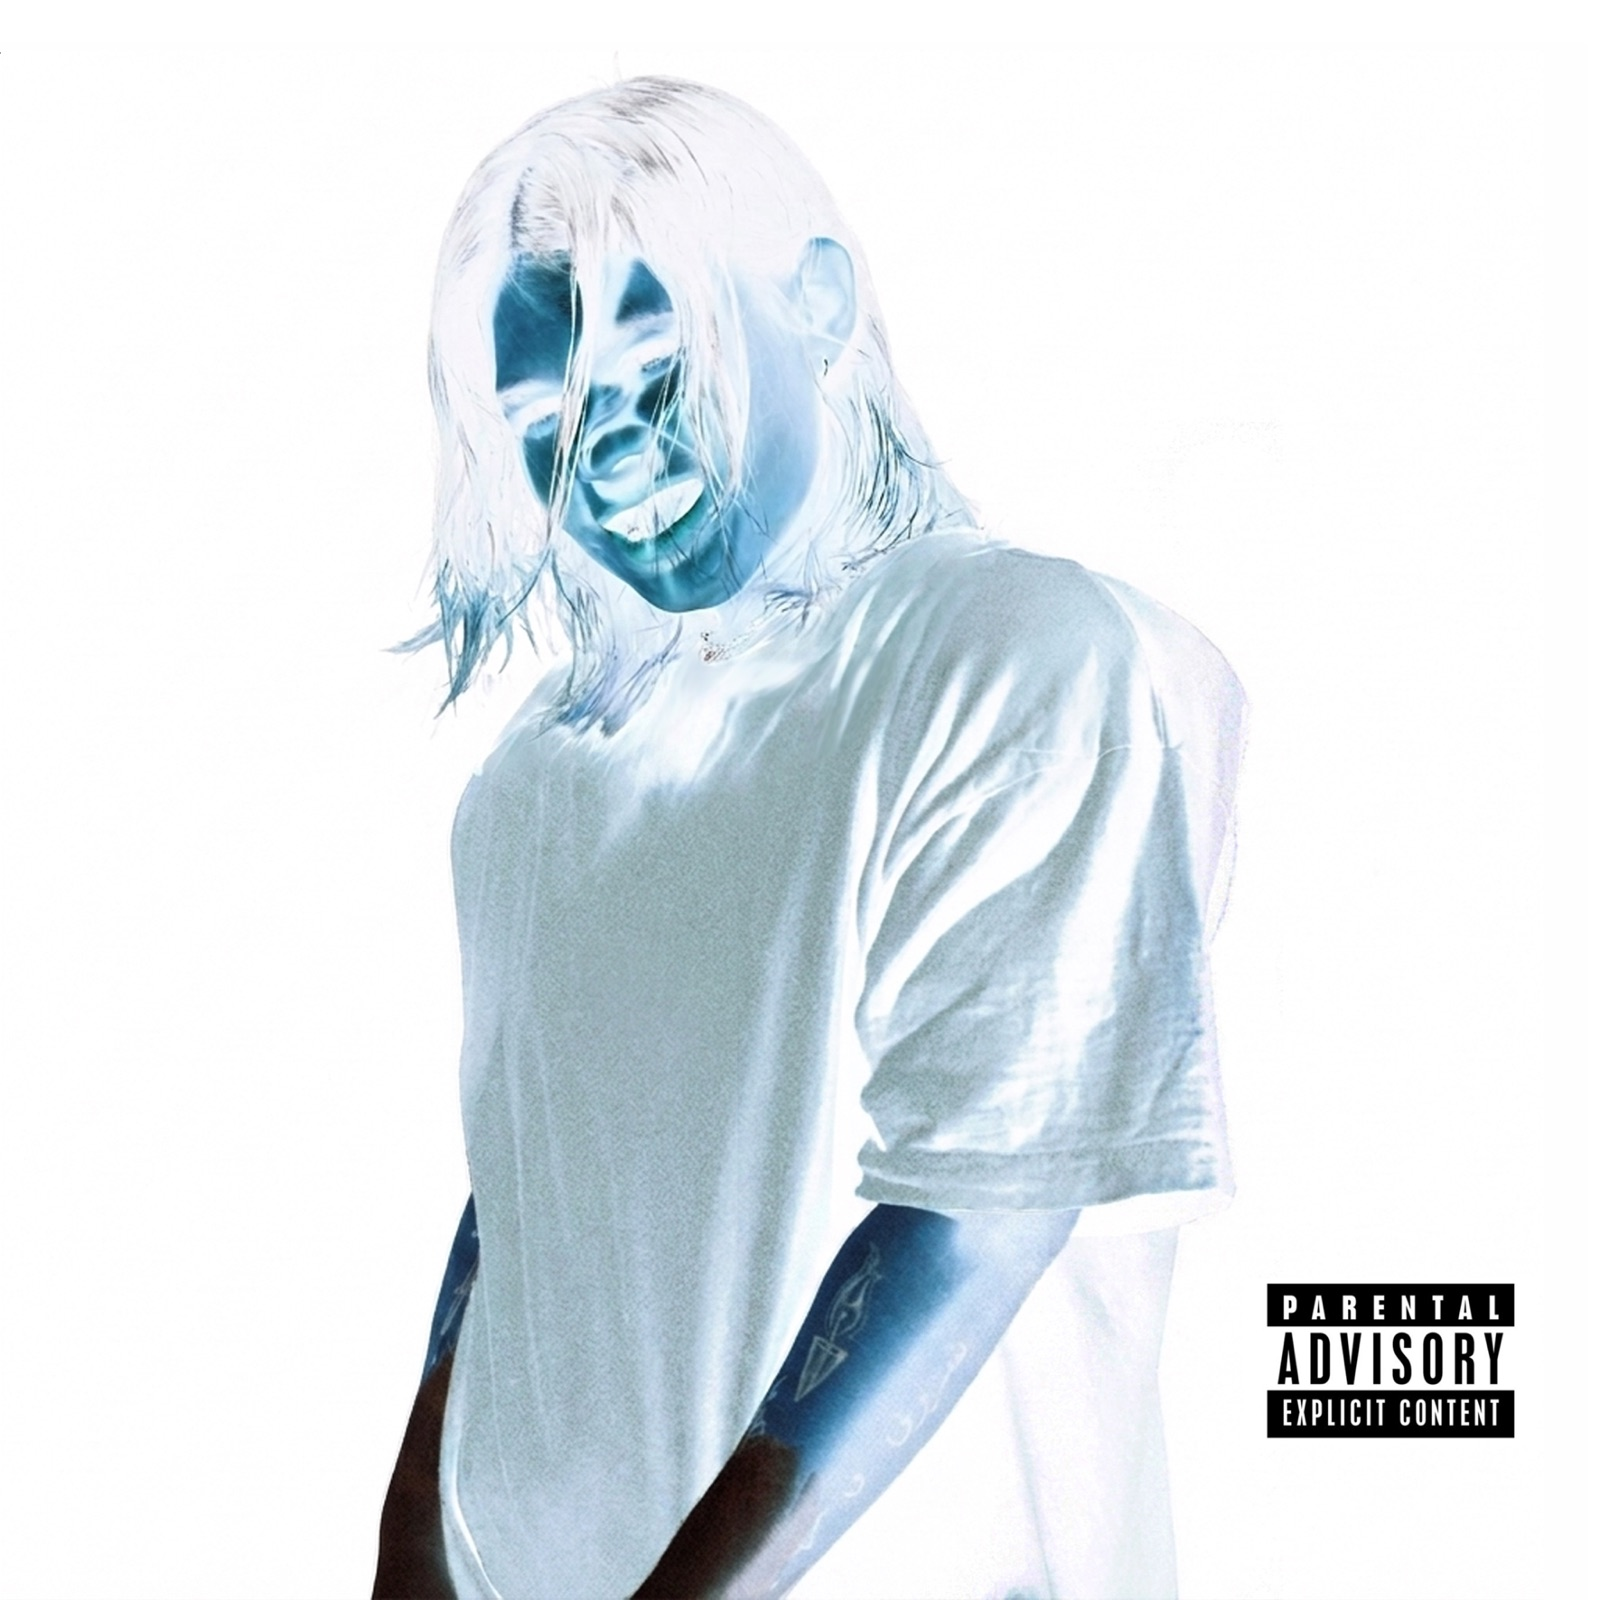
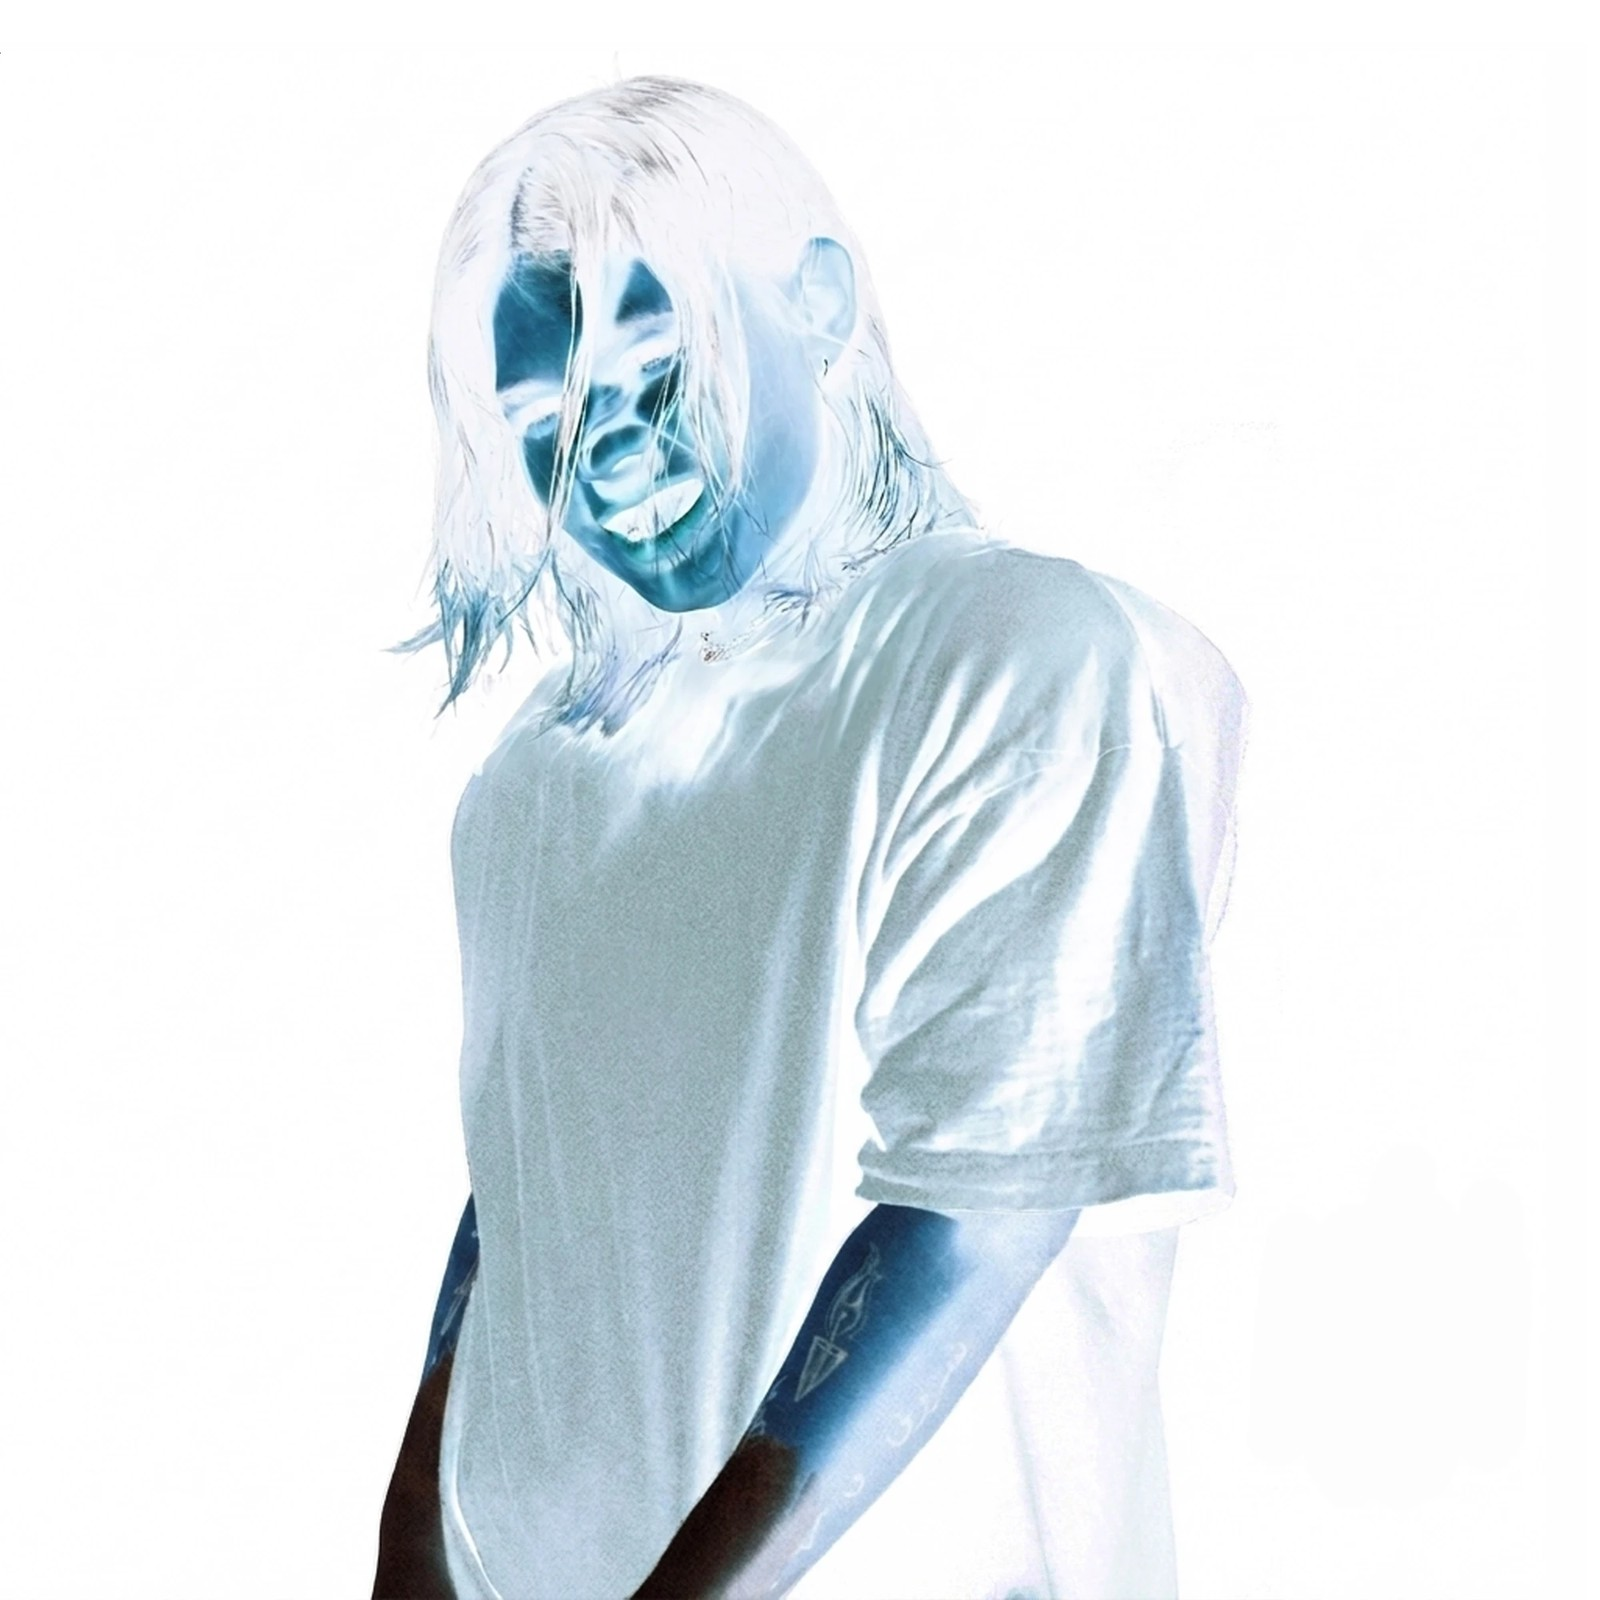
JASHIM page: the cover without the advisory label

Changed region(s): [[0.7812, 0.7812, 0.9688, 0.9062]]

diff --git a/jashim/index.html b/jashim/index.html
@@ -103,7 +103,7 @@
         <div class="container">
         <div class="column">
     <center>
-		  <img class="cover" src="img/jashim-cover.jpg"> <br><br>
+		  <img class="cover" src="img/jashim-cover.jpg?v=2"> <br><br>
 		  <img class="title" src="img/jashim-title.svg?v=2" alt="JASHIM"> <br><br>
 		</center>
     JASHIM releases his self-titled debut album ‘JASHIM’, an exploration of courtship and love in Montreal’s latinx underground.
